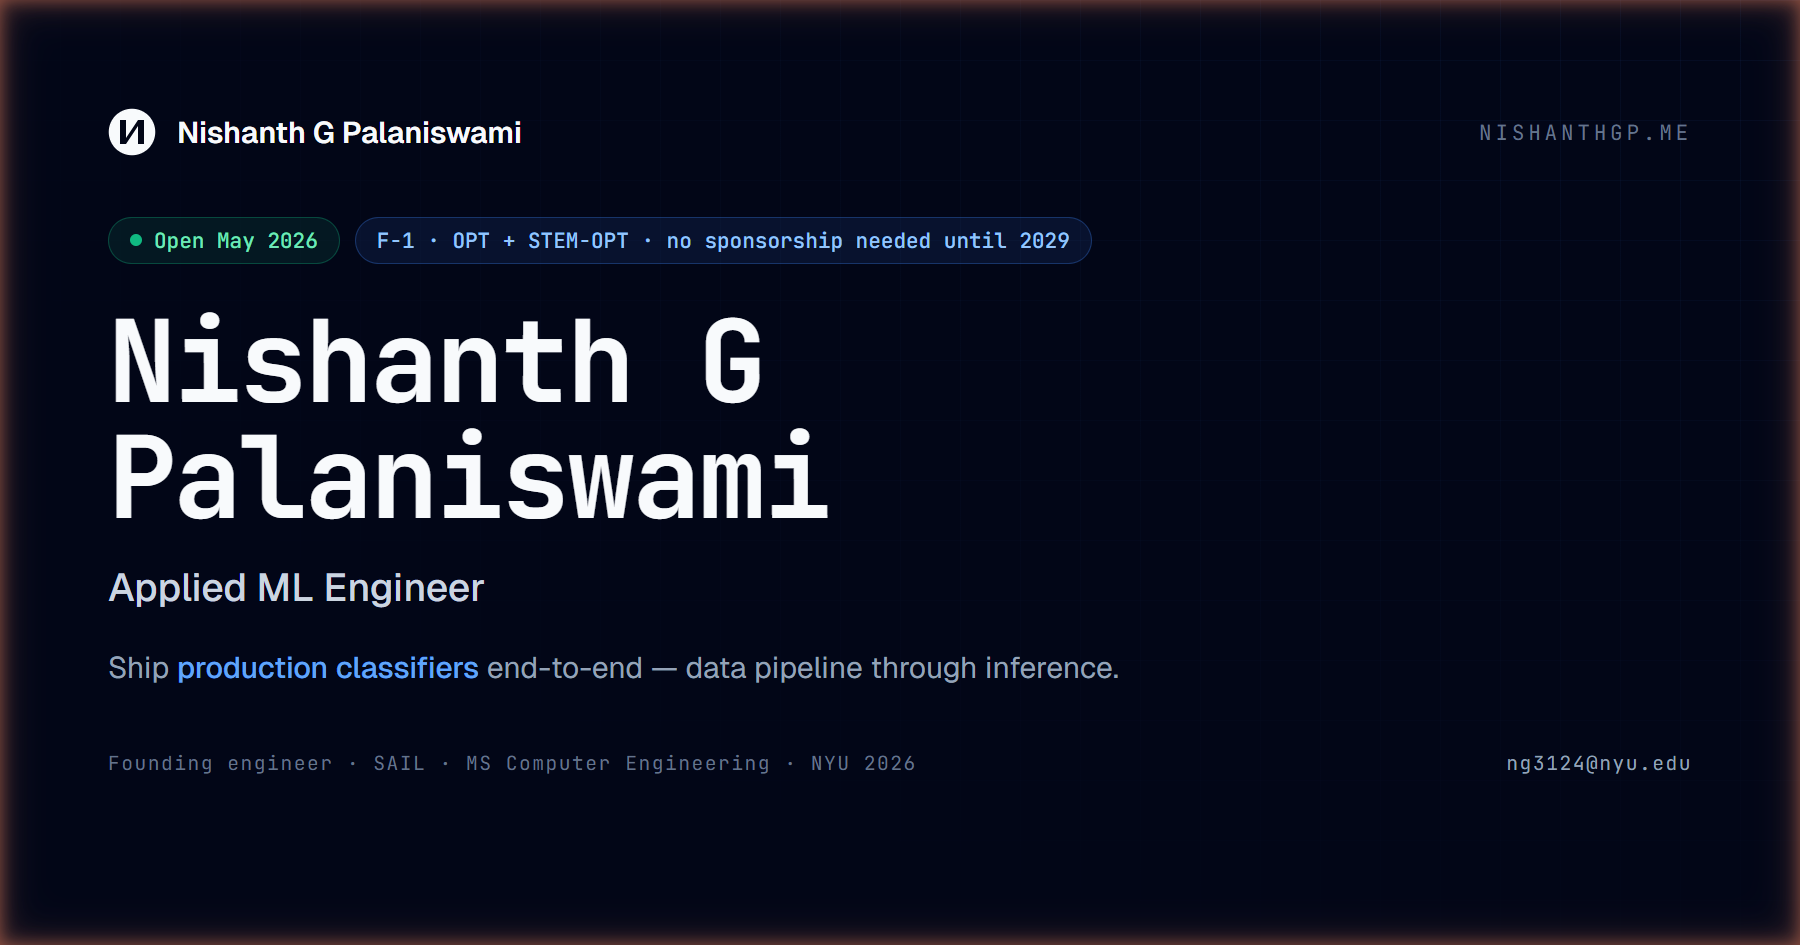
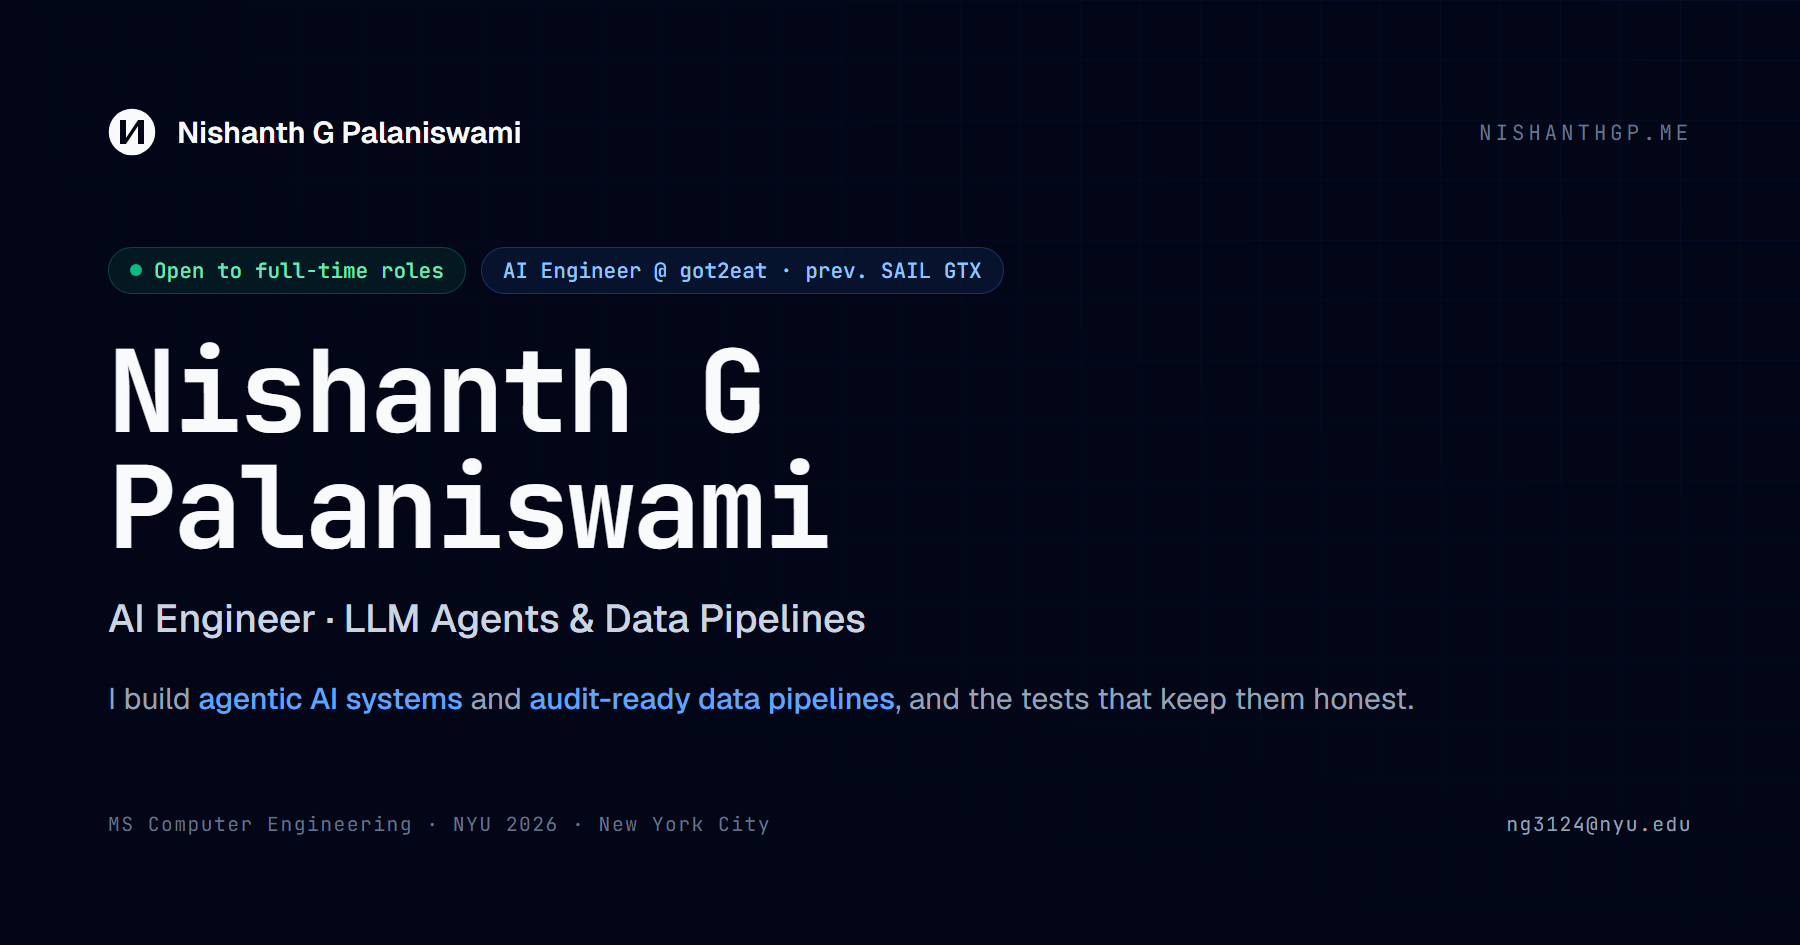
content: audit fixes - regenerated og image (drops banned Founding line), AI Engineer consistency in About/Skills/Contact, past-tense SAIL ownership, link got2eat.site

diff --git a/src/App.jsx b/src/App.jsx
@@ -37,7 +37,7 @@ Best,
   resume: "https://drive.google.com/file/d/1xSsXeuJOPBaVGLctq1r0azfFToLEzv9L/view",
 };
 
-const ABOUT = `I'm Nishanth, a software engineer who builds AI systems that have to be right, not just impressive. I like owning the layers that make software trustworthy: data pipelines with versioned ingestion, agentic systems with tested guardrails, and the golden tests and CI that catch regressions before users do. My work sits where engineering meets AI: turning ambiguity into systems that are clear, reproducible, and production-ready.`;
+const ABOUT = `I'm Nishanth, an AI engineer who builds systems that have to be right, not just impressive. I like owning the layers that make software trustworthy: data pipelines with versioned ingestion, agentic systems with tested guardrails, and the golden tests and CI that catch regressions before users do. My work sits where engineering meets AI: turning ambiguity into systems that are clear, reproducible, and production-ready.`;
 
 const EDUCATION = [
   {
@@ -63,16 +63,17 @@ const SKILLS = [
     icon: Cpu,
     items: [
       "PyTorch", "Scikit-learn", "Pandas", "NumPy", "LLMs / RAG / GenAI",
+      "Agents / MCP / Claude Agent SDK",
       "NLP", "Transformers (Hugging Face)", "LoRA / PEFT",
-      "OpenCV",
     ],
   },
   {
     group: "Data & Infrastructure",
     icon: Database,
     items: [
-      "PySpark", "Supabase / PostgreSQL", "SQLite", "DuckDB",
-      "Parquet / pyarrow", "FastAPI", "Django", "REST APIs", "React",
+      "PySpark", "Dagster / dbt", "Supabase / PostgreSQL", "SQLite", "DuckDB",
+      "Parquet / pyarrow", "FastAPI", "Django", "Deno / Node.js", "REST APIs", "React",
+      "MapLibre GL / GTFS",
     ],
   },
   {
@@ -110,6 +111,7 @@ const EXPERIENCE = [
   {
     role: "AI Engineer",
     company: "Got2eat (Base44 Accelerator Runner-Up)",
+    companyHref: "https://got2eat.site",
     period: "August 2026 – Present",
     location: "Remote · New York, NY",
     impact: [
@@ -898,11 +900,11 @@ export default function Portfolio() {
                 What I own
               </div>
               <p className="text-sm text-slate-700 dark:text-slate-300 leading-relaxed max-w-3xl">
-                Primary owner of the HTS revision engine: schema, ingestion, 166-release
-                history (2018–2026), golden tests, normalized change detection, and sole
-                owner of the duty-calculation pipeline (Python, SQLite, Parquet, FastAPI)
-                and the Product DNA store. Co-owner (with our CTO) of the HTS classification
-                model built on top: training data curation, model, inference pipeline,
+                Owned the HTS revision engine end to end: schema, ingestion, 166-release
+                history (2018–2026), golden tests, normalized change detection. Solely
+                built the duty-calculation pipeline (Python, SQLite, Parquet, FastAPI)
+                and the Product DNA store; co-built (with the CTO) the HTS classification
+                model on top: training data curation, model, inference pipeline,
                 evaluation loops.
               </p>
             </div>
@@ -969,7 +971,19 @@ export default function Portfolio() {
               >
                 <div className="md:col-span-2">
                   <p className="font-semibold text-slate-900 dark:text-slate-100">
-                    {exp.company}
+                    {exp.companyHref ? (
+                      <a
+                        href={exp.companyHref}
+                        target="_blank"
+                        rel="noreferrer"
+                        className={`inline-flex items-center gap-1 hover:text-blue-600 dark:hover:text-blue-400 transition-colors rounded ${focusRing}`}
+                      >
+                        {exp.company}
+                        <ArrowUpRight className="h-3.5 w-3.5" aria-hidden="true" />
+                      </a>
+                    ) : (
+                      exp.company
+                    )}
                   </p>
                   <p className="mt-1 text-sm text-slate-500 dark:text-slate-400 flex items-center gap-1.5">
                     <Calendar className="h-3.5 w-3.5" aria-hidden="true" /> {exp.period}
@@ -1225,7 +1239,7 @@ export default function Portfolio() {
             </div>
 
             <p className="mt-8 max-w-2xl text-base md:text-lg text-slate-300 leading-relaxed">
-              Open to full-time software engineering roles across AI applications, data, and
+              Open to full-time AI engineering and software roles across agents, data, and
               backend. Happy to chat about agentic systems, audit-ready data pipelines, or
               making models behave reliably in production.
             </p>

diff --git a/public/og-template.html b/public/og-template.html
@@ -158,20 +158,20 @@
     <div class="pills">
       <div class="pill emerald">
         <span class="dot"></span>
-        Open May 2026
+        Open to full-time roles
       </div>
-      <div class="pill blue">F-1 · OPT + STEM-OPT · no sponsorship needed until 2029</div>
+      <div class="pill blue">AI Engineer @ got2eat · prev. SAIL GTX</div>
     </div>
     <h1 class="name">Nishanth G<br />Palaniswami</h1>
-    <div class="role">Applied ML Engineer</div>
+    <div class="role">AI Engineer · LLM Agents &amp; Data Pipelines</div>
     <div class="thesis">
-      Ship <strong>production classifiers</strong> end-to-end — data pipeline through
-      inference.
+      I build <strong>agentic AI systems</strong> and <strong>audit-ready data
+      pipelines</strong>, and the tests that keep them honest.
     </div>
   </div>
 
   <div class="bottom">
-    <div>Founding engineer · SAIL · MS Computer Engineering · NYU 2026</div>
+    <div>MS Computer Engineering · NYU 2026 · New York City</div>
     <div class="right">ng3124@nyu.edu</div>
   </div>
 </body>

diff --git a/index.html b/index.html
@@ -39,12 +39,20 @@
       "url": "https://nishanthgp.me/",
       "jobTitle": "AI Engineer",
       "email": "mailto:ng3124@nyu.edu",
+      "worksFor": {
+        "@type": "Organization",
+        "name": "Got2eat",
+        "url": "https://got2eat.site/"
+      },
       "alumniOf": {
         "@type": "CollegeOrUniversity",
         "name": "New York University",
         "sameAs": "https://www.nyu.edu/"
       },
       "knowsAbout": [
+        "LLM Agents",
+        "Retrieval-Augmented Generation",
+        "Model Context Protocol",
         "Machine Learning",
         "ML Infrastructure",
         "Data Pipelines",
